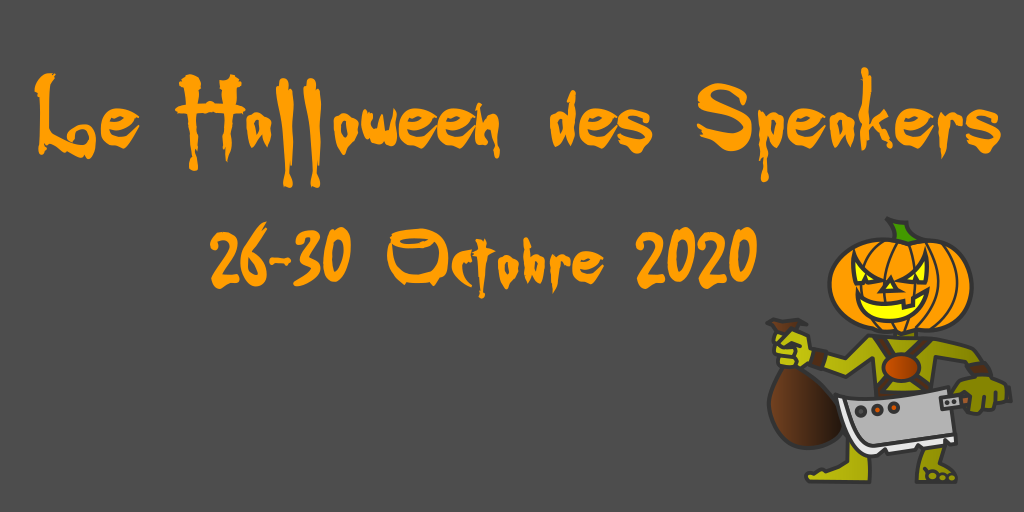
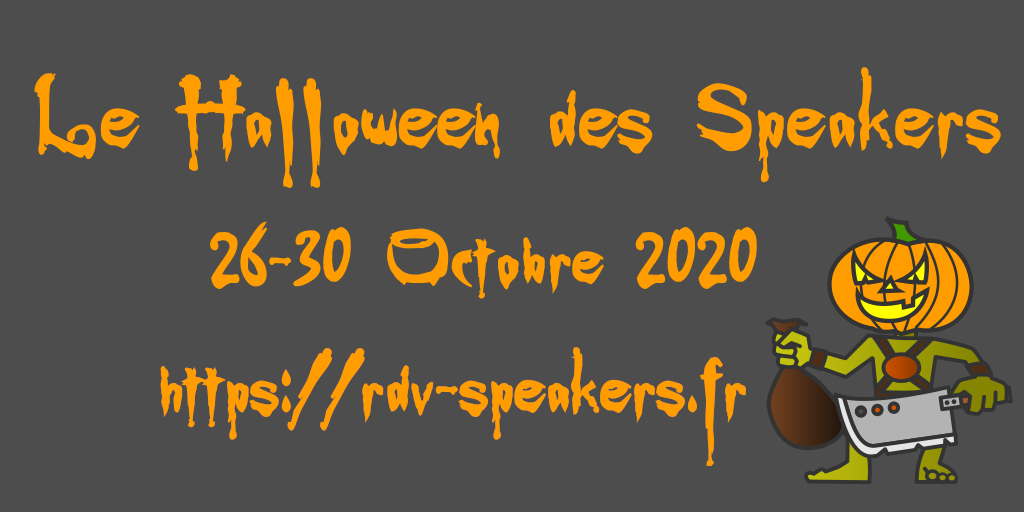
Fixing Twitter link

Changed region(s): [[0.1562, 0.6875, 0.75, 0.9062]]

diff --git a/code-of-conduct/index.html b/code-of-conduct/index.html
@@ -386,7 +386,7 @@ If a community member engages in unacceptable behavior, the community organizers
 					
 					<li> 
 						
-						<a href="https://www.facebook.com/sharer.php?u=https%3a%2f%2frentreespeakers.fr%2f"
+						<a href="https://www.facebook.com/sharer.php?u=https%3a%2f%2frdv-speakers.fr%2f"
   class="social" rel="noreferrer" target="_blank">
 	<svg class="icon icon-facebook">
 	<use xlink:href="#facebook"/>
@@ -395,7 +395,7 @@ If a community member engages in unacceptable behavior, the community organizers
 					<li> 
 						
 						
-<a href="https://twitter.com/share?url=https%3a%2f%2frentreespeakers.fr%2f&text=Come%20join%20us%20at%20%40RentreeSpeakers%20the%20after-summer%20virtual%20conference%20for%20French-speaking%20Software%20Developers"
+<a href="https://twitter.com/share?url=https%3a%2f%2frdv-speakers.fr%2f&text=Come%20join%20us%20at%20%40RentreeSpeakers%20the%20after-summer%20virtual%20conference%20for%20French-speaking%20Software%20Developers"
   class="social" rel="noreferrer" target="_blank">
 	<svg class="icon icon-twitter">
 	<use xlink:href="#twitter"/>
@@ -413,7 +413,7 @@ If a community member engages in unacceptable behavior, the community organizers
 				<ul class="social-list">
 					
 					<li>
-						<a href="https://twitter.com/RentreeSpeakers" class="social" rel="noreferrer" target="_blank">
+						<a href="https://twitter.com/RdvSpeakers" class="social" rel="noreferrer" target="_blank">
 							<svg class="icon icon-twitter">
 	<use xlink:href="#twitter"/>
 </svg>

diff --git a/speakers/aurelie_vache/index.html b/speakers/aurelie_vache/index.html
@@ -352,7 +352,7 @@ Elle est également rédactrice d&rsquo;articles techniques et marraine de l’a
 					
 					<li> 
 						
-						<a href="https://www.facebook.com/sharer.php?u=https%3a%2f%2frentreespeakers.fr%2f"
+						<a href="https://www.facebook.com/sharer.php?u=https%3a%2f%2frdv-speakers.fr%2f"
   class="social" rel="noreferrer" target="_blank">
 	<svg class="icon icon-facebook">
 	<use xlink:href="#facebook"/>
@@ -361,7 +361,7 @@ Elle est également rédactrice d&rsquo;articles techniques et marraine de l’a
 					<li> 
 						
 						
-<a href="https://twitter.com/share?url=https%3a%2f%2frentreespeakers.fr%2f&text=Come%20join%20us%20at%20%40RentreeSpeakers%20the%20after-summer%20virtual%20conference%20for%20French-speaking%20Software%20Developers"
+<a href="https://twitter.com/share?url=https%3a%2f%2frdv-speakers.fr%2f&text=Come%20join%20us%20at%20%40RentreeSpeakers%20the%20after-summer%20virtual%20conference%20for%20French-speaking%20Software%20Developers"
   class="social" rel="noreferrer" target="_blank">
 	<svg class="icon icon-twitter">
 	<use xlink:href="#twitter"/>
@@ -379,7 +379,7 @@ Elle est également rédactrice d&rsquo;articles techniques et marraine de l’a
 				<ul class="social-list">
 					
 					<li>
-						<a href="https://twitter.com/RentreeSpeakers" class="social" rel="noreferrer" target="_blank">
+						<a href="https://twitter.com/RdvSpeakers" class="social" rel="noreferrer" target="_blank">
 							<svg class="icon icon-twitter">
 	<use xlink:href="#twitter"/>
 </svg>

diff --git a/fr/code-of-conduct/index.html b/fr/code-of-conduct/index.html
@@ -392,7 +392,7 @@ If a community member engages in unacceptable behavior, the community organizers
 					
 					<li> 
 						
-						<a href="https://www.facebook.com/sharer.php?u=https%3a%2f%2frentreespeakers.fr%2f"
+						<a href="https://www.facebook.com/sharer.php?u=https%3a%2f%2frdv-speakers.fr%2f"
   class="social" rel="noreferrer" target="_blank">
 	<svg class="icon icon-facebook">
 	<use xlink:href="#facebook"/>
@@ -401,7 +401,7 @@ If a community member engages in unacceptable behavior, the community organizers
 					<li> 
 						
 						
-<a href="https://twitter.com/share?url=https%3a%2f%2frentreespeakers.fr%2f&text=Venez%20%c3%a0%20la%20%40RentreeSpeakers%2c%20la%20conf%c3%a9rence%20dev%20incontournable%20de%20la%20rentr%c3%a9e%20%21"
+<a href="https://twitter.com/share?url=https%3a%2f%2frdv-speakers.fr%2f&text=Venez%20%c3%a0%20la%20%40RentreeSpeakers%2c%20la%20conf%c3%a9rence%20dev%20incontournable%20de%20la%20rentr%c3%a9e%20%21"
   class="social" rel="noreferrer" target="_blank">
 	<svg class="icon icon-twitter">
 	<use xlink:href="#twitter"/>
@@ -419,7 +419,7 @@ If a community member engages in unacceptable behavior, the community organizers
 				<ul class="social-list">
 					
 					<li>
-						<a href="https://twitter.com/RentreeSpeakers" class="social" rel="noreferrer" target="_blank">
+						<a href="https://twitter.com/RdvSpeakers" class="social" rel="noreferrer" target="_blank">
 							<svg class="icon icon-twitter">
 	<use xlink:href="#twitter"/>
 </svg>

diff --git a/fr/index.html b/fr/index.html
@@ -538,7 +538,7 @@ accueillira à nouveau cette année le La Rentrée des Speakers.</p>
 					
 					<li> 
 						
-						<a href="https://www.facebook.com/sharer.php?u=https%3a%2f%2frentreespeakers.fr%2f"
+						<a href="https://www.facebook.com/sharer.php?u=https%3a%2f%2frdv-speakers.fr%2f"
   class="social" rel="noreferrer" target="_blank">
 	<svg class="icon icon-facebook">
 	<use xlink:href="#facebook"/>
@@ -547,7 +547,7 @@ accueillira à nouveau cette année le La Rentrée des Speakers.</p>
 					<li> 
 						
 						
-<a href="https://twitter.com/share?url=https%3a%2f%2frentreespeakers.fr%2f&text=Venez%20%c3%a0%20la%20%40RentreeSpeakers%2c%20la%20conf%c3%a9rence%20dev%20incontournable%20de%20la%20rentr%c3%a9e%20%21"
+<a href="https://twitter.com/share?url=https%3a%2f%2frdv-speakers.fr%2f&text=Venez%20%c3%a0%20la%20%40RentreeSpeakers%2c%20la%20conf%c3%a9rence%20dev%20incontournable%20de%20la%20rentr%c3%a9e%20%21"
   class="social" rel="noreferrer" target="_blank">
 	<svg class="icon icon-twitter">
 	<use xlink:href="#twitter"/>
@@ -565,7 +565,7 @@ accueillira à nouveau cette année le La Rentrée des Speakers.</p>
 				<ul class="social-list">
 					
 					<li>
-						<a href="https://twitter.com/RentreeSpeakers" class="social" rel="noreferrer" target="_blank">
+						<a href="https://twitter.com/RdvSpeakers" class="social" rel="noreferrer" target="_blank">
 							<svg class="icon icon-twitter">
 	<use xlink:href="#twitter"/>
 </svg>

diff --git a/404.html b/404.html
@@ -289,7 +289,7 @@ if (!doNotTrack) {
 					
 					<li> 
 						
-						<a href="https://www.facebook.com/sharer.php?u=https%3a%2f%2frentreespeakers.fr%2f"
+						<a href="https://www.facebook.com/sharer.php?u=https%3a%2f%2frdv-speakers.fr%2f"
   class="social" rel="noreferrer" target="_blank">
 	<svg class="icon icon-facebook">
 	<use xlink:href="#facebook"/>
@@ -298,7 +298,7 @@ if (!doNotTrack) {
 					<li> 
 						
 						
-<a href="https://twitter.com/share?url=https%3a%2f%2frentreespeakers.fr%2f&text=Come%20join%20us%20at%20%40RentreeSpeakers%20the%20after-summer%20virtual%20conference%20for%20French-speaking%20Software%20Developers"
+<a href="https://twitter.com/share?url=https%3a%2f%2frdv-speakers.fr%2f&text=Come%20join%20us%20at%20%40RentreeSpeakers%20the%20after-summer%20virtual%20conference%20for%20French-speaking%20Software%20Developers"
   class="social" rel="noreferrer" target="_blank">
 	<svg class="icon icon-twitter">
 	<use xlink:href="#twitter"/>
@@ -316,7 +316,7 @@ if (!doNotTrack) {
 				<ul class="social-list">
 					
 					<li>
-						<a href="https://twitter.com/RentreeSpeakers" class="social" rel="noreferrer" target="_blank">
+						<a href="https://twitter.com/RdvSpeakers" class="social" rel="noreferrer" target="_blank">
 							<svg class="icon icon-twitter">
 	<use xlink:href="#twitter"/>
 </svg>

diff --git a/index.html b/index.html
@@ -531,7 +531,7 @@ if (!doNotTrack) {
 					
 					<li> 
 						
-						<a href="https://www.facebook.com/sharer.php?u=https%3a%2f%2frentreespeakers.fr%2f"
+						<a href="https://www.facebook.com/sharer.php?u=https%3a%2f%2frdv-speakers.fr%2f"
   class="social" rel="noreferrer" target="_blank">
 	<svg class="icon icon-facebook">
 	<use xlink:href="#facebook"/>
@@ -540,7 +540,7 @@ if (!doNotTrack) {
 					<li> 
 						
 						
-<a href="https://twitter.com/share?url=https%3a%2f%2frentreespeakers.fr%2f&text=Come%20join%20us%20at%20%40RentreeSpeakers%20the%20after-summer%20virtual%20conference%20for%20French-speaking%20Software%20Developers"
+<a href="https://twitter.com/share?url=https%3a%2f%2frdv-speakers.fr%2f&text=Come%20join%20us%20at%20%40RentreeSpeakers%20the%20after-summer%20virtual%20conference%20for%20French-speaking%20Software%20Developers"
   class="social" rel="noreferrer" target="_blank">
 	<svg class="icon icon-twitter">
 	<use xlink:href="#twitter"/>
@@ -558,7 +558,7 @@ if (!doNotTrack) {
 				<ul class="social-list">
 					
 					<li>
-						<a href="https://twitter.com/RentreeSpeakers" class="social" rel="noreferrer" target="_blank">
+						<a href="https://twitter.com/RdvSpeakers" class="social" rel="noreferrer" target="_blank">
 							<svg class="icon icon-twitter">
 	<use xlink:href="#twitter"/>
 </svg>

diff --git a/partners/communautes/finistdevs/index.html b/partners/communautes/finistdevs/index.html
@@ -316,7 +316,7 @@ if (!doNotTrack) {
 					
 					<li> 
 						
-						<a href="https://www.facebook.com/sharer.php?u=https%3a%2f%2frentreespeakers.fr%2f"
+						<a href="https://www.facebook.com/sharer.php?u=https%3a%2f%2frdv-speakers.fr%2f"
   class="social" rel="noreferrer" target="_blank">
 	<svg class="icon icon-facebook">
 	<use xlink:href="#facebook"/>
@@ -325,7 +325,7 @@ if (!doNotTrack) {
 					<li> 
 						
 						
-<a href="https://twitter.com/share?url=https%3a%2f%2frentreespeakers.fr%2f&text=Come%20join%20us%20at%20%40RentreeSpeakers%20the%20after-summer%20virtual%20conference%20for%20French-speaking%20Software%20Developers"
+<a href="https://twitter.com/share?url=https%3a%2f%2frdv-speakers.fr%2f&text=Come%20join%20us%20at%20%40RentreeSpeakers%20the%20after-summer%20virtual%20conference%20for%20French-speaking%20Software%20Developers"
   class="social" rel="noreferrer" target="_blank">
 	<svg class="icon icon-twitter">
 	<use xlink:href="#twitter"/>
@@ -343,7 +343,7 @@ if (!doNotTrack) {
 				<ul class="social-list">
 					
 					<li>
-						<a href="https://twitter.com/RentreeSpeakers" class="social" rel="noreferrer" target="_blank">
+						<a href="https://twitter.com/RdvSpeakers" class="social" rel="noreferrer" target="_blank">
 							<svg class="icon icon-twitter">
 	<use xlink:href="#twitter"/>
 </svg>

diff --git a/partners/communautes/gdg-cloud-lyon/index.html b/partners/communautes/gdg-cloud-lyon/index.html
@@ -332,7 +332,7 @@ if (!doNotTrack) {
 					
 					<li> 
 						
-						<a href="https://www.facebook.com/sharer.php?u=https%3a%2f%2frentreespeakers.fr%2f"
+						<a href="https://www.facebook.com/sharer.php?u=https%3a%2f%2frdv-speakers.fr%2f"
   class="social" rel="noreferrer" target="_blank">
 	<svg class="icon icon-facebook">
 	<use xlink:href="#facebook"/>
@@ -341,7 +341,7 @@ if (!doNotTrack) {
 					<li> 
 						
 						
-<a href="https://twitter.com/share?url=https%3a%2f%2frentreespeakers.fr%2f&text=Come%20join%20us%20at%20%40RentreeSpeakers%20the%20after-summer%20virtual%20conference%20for%20French-speaking%20Software%20Developers"
+<a href="https://twitter.com/share?url=https%3a%2f%2frdv-speakers.fr%2f&text=Come%20join%20us%20at%20%40RentreeSpeakers%20the%20after-summer%20virtual%20conference%20for%20French-speaking%20Software%20Developers"
   class="social" rel="noreferrer" target="_blank">
 	<svg class="icon icon-twitter">
 	<use xlink:href="#twitter"/>
@@ -359,7 +359,7 @@ if (!doNotTrack) {
 				<ul class="social-list">
 					
 					<li>
-						<a href="https://twitter.com/RentreeSpeakers" class="social" rel="noreferrer" target="_blank">
+						<a href="https://twitter.com/RdvSpeakers" class="social" rel="noreferrer" target="_blank">
 							<svg class="icon icon-twitter">
 	<use xlink:href="#twitter"/>
 </svg>

diff --git a/partners/communautes/montpellier-tech-hub/index.html b/partners/communautes/montpellier-tech-hub/index.html
@@ -350,7 +350,7 @@ if (!doNotTrack) {
 					
 					<li> 
 						
-						<a href="https://www.facebook.com/sharer.php?u=https%3a%2f%2frentreespeakers.fr%2f"
+						<a href="https://www.facebook.com/sharer.php?u=https%3a%2f%2frdv-speakers.fr%2f"
   class="social" rel="noreferrer" target="_blank">
 	<svg class="icon icon-facebook">
 	<use xlink:href="#facebook"/>
@@ -359,7 +359,7 @@ if (!doNotTrack) {
 					<li> 
 						
 						
-<a href="https://twitter.com/share?url=https%3a%2f%2frentreespeakers.fr%2f&text=Come%20join%20us%20at%20%40RentreeSpeakers%20the%20after-summer%20virtual%20conference%20for%20French-speaking%20Software%20Developers"
+<a href="https://twitter.com/share?url=https%3a%2f%2frdv-speakers.fr%2f&text=Come%20join%20us%20at%20%40RentreeSpeakers%20the%20after-summer%20virtual%20conference%20for%20French-speaking%20Software%20Developers"
   class="social" rel="noreferrer" target="_blank">
 	<svg class="icon icon-twitter">
 	<use xlink:href="#twitter"/>
@@ -377,7 +377,7 @@ if (!doNotTrack) {
 				<ul class="social-list">
 					
 					<li>
-						<a href="https://twitter.com/RentreeSpeakers" class="social" rel="noreferrer" target="_blank">
+						<a href="https://twitter.com/RdvSpeakers" class="social" rel="noreferrer" target="_blank">
 							<svg class="icon icon-twitter">
 	<use xlink:href="#twitter"/>
 </svg>

diff --git a/partners/index.html b/partners/index.html
@@ -378,7 +378,7 @@ if (!doNotTrack) {
 					
 					<li> 
 						
-						<a href="https://www.facebook.com/sharer.php?u=https%3a%2f%2frentreespeakers.fr%2f"
+						<a href="https://www.facebook.com/sharer.php?u=https%3a%2f%2frdv-speakers.fr%2f"
   class="social" rel="noreferrer" target="_blank">
 	<svg class="icon icon-facebook">
 	<use xlink:href="#facebook"/>
@@ -387,7 +387,7 @@ if (!doNotTrack) {
 					<li> 
 						
 						
-<a href="https://twitter.com/share?url=https%3a%2f%2frentreespeakers.fr%2f&text=Come%20join%20us%20at%20%40RentreeSpeakers%20the%20after-summer%20virtual%20conference%20for%20French-speaking%20Software%20Developers"
+<a href="https://twitter.com/share?url=https%3a%2f%2frdv-speakers.fr%2f&text=Come%20join%20us%20at%20%40RentreeSpeakers%20the%20after-summer%20virtual%20conference%20for%20French-speaking%20Software%20Developers"
   class="social" rel="noreferrer" target="_blank">
 	<svg class="icon icon-twitter">
 	<use xlink:href="#twitter"/>
@@ -405,7 +405,7 @@ if (!doNotTrack) {
 				<ul class="social-list">
 					
 					<li>
-						<a href="https://twitter.com/RentreeSpeakers" class="social" rel="noreferrer" target="_blank">
+						<a href="https://twitter.com/RdvSpeakers" class="social" rel="noreferrer" target="_blank">
 							<svg class="icon icon-twitter">
 	<use xlink:href="#twitter"/>
 </svg>

diff --git a/partners/support/bots-garden/index.html b/partners/support/bots-garden/index.html
@@ -316,7 +316,7 @@ if (!doNotTrack) {
 					
 					<li> 
 						
-						<a href="https://www.facebook.com/sharer.php?u=https%3a%2f%2frentreespeakers.fr%2f"
+						<a href="https://www.facebook.com/sharer.php?u=https%3a%2f%2frdv-speakers.fr%2f"
   class="social" rel="noreferrer" target="_blank">
 	<svg class="icon icon-facebook">
 	<use xlink:href="#facebook"/>
@@ -325,7 +325,7 @@ if (!doNotTrack) {
 					<li> 
 						
 						
-<a href="https://twitter.com/share?url=https%3a%2f%2frentreespeakers.fr%2f&text=Come%20join%20us%20at%20%40RentreeSpeakers%20the%20after-summer%20virtual%20conference%20for%20French-speaking%20Software%20Developers"
+<a href="https://twitter.com/share?url=https%3a%2f%2frdv-speakers.fr%2f&text=Come%20join%20us%20at%20%40RentreeSpeakers%20the%20after-summer%20virtual%20conference%20for%20French-speaking%20Software%20Developers"
   class="social" rel="noreferrer" target="_blank">
 	<svg class="icon icon-twitter">
 	<use xlink:href="#twitter"/>
@@ -343,7 +343,7 @@ if (!doNotTrack) {
 				<ul class="social-list">
 					
 					<li>
-						<a href="https://twitter.com/RentreeSpeakers" class="social" rel="noreferrer" target="_blank">
+						<a href="https://twitter.com/RdvSpeakers" class="social" rel="noreferrer" target="_blank">
 							<svg class="icon icon-twitter">
 	<use xlink:href="#twitter"/>
 </svg>

diff --git a/partners/support/elastic/index.html b/partners/support/elastic/index.html
@@ -316,7 +316,7 @@ if (!doNotTrack) {
 					
 					<li> 
 						
-						<a href="https://www.facebook.com/sharer.php?u=https%3a%2f%2frentreespeakers.fr%2f"
+						<a href="https://www.facebook.com/sharer.php?u=https%3a%2f%2frdv-speakers.fr%2f"
   class="social" rel="noreferrer" target="_blank">
 	<svg class="icon icon-facebook">
 	<use xlink:href="#facebook"/>
@@ -325,7 +325,7 @@ if (!doNotTrack) {
 					<li> 
 						
 						
-<a href="https://twitter.com/share?url=https%3a%2f%2frentreespeakers.fr%2f&text=Come%20join%20us%20at%20%40RentreeSpeakers%20the%20after-summer%20virtual%20conference%20for%20French-speaking%20Software%20Developers"
+<a href="https://twitter.com/share?url=https%3a%2f%2frdv-speakers.fr%2f&text=Come%20join%20us%20at%20%40RentreeSpeakers%20the%20after-summer%20virtual%20conference%20for%20French-speaking%20Software%20Developers"
   class="social" rel="noreferrer" target="_blank">
 	<svg class="icon icon-twitter">
 	<use xlink:href="#twitter"/>
@@ -343,7 +343,7 @@ if (!doNotTrack) {
 				<ul class="social-list">
 					
 					<li>
-						<a href="https://twitter.com/RentreeSpeakers" class="social" rel="noreferrer" target="_blank">
+						<a href="https://twitter.com/RdvSpeakers" class="social" rel="noreferrer" target="_blank">
 							<svg class="icon icon-twitter">
 	<use xlink:href="#twitter"/>
 </svg>
